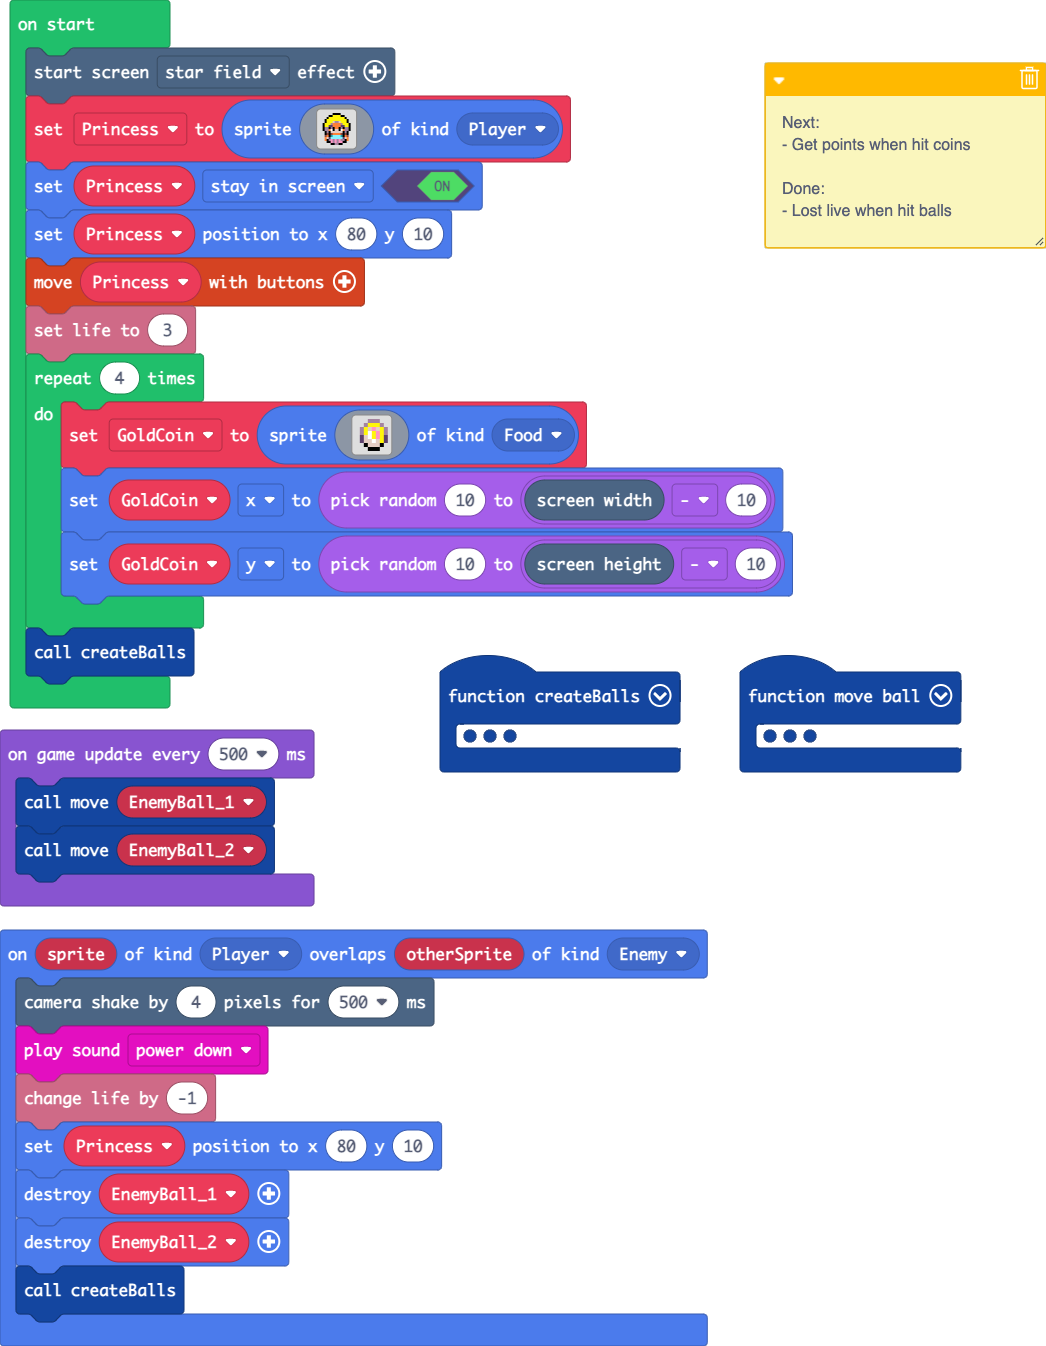
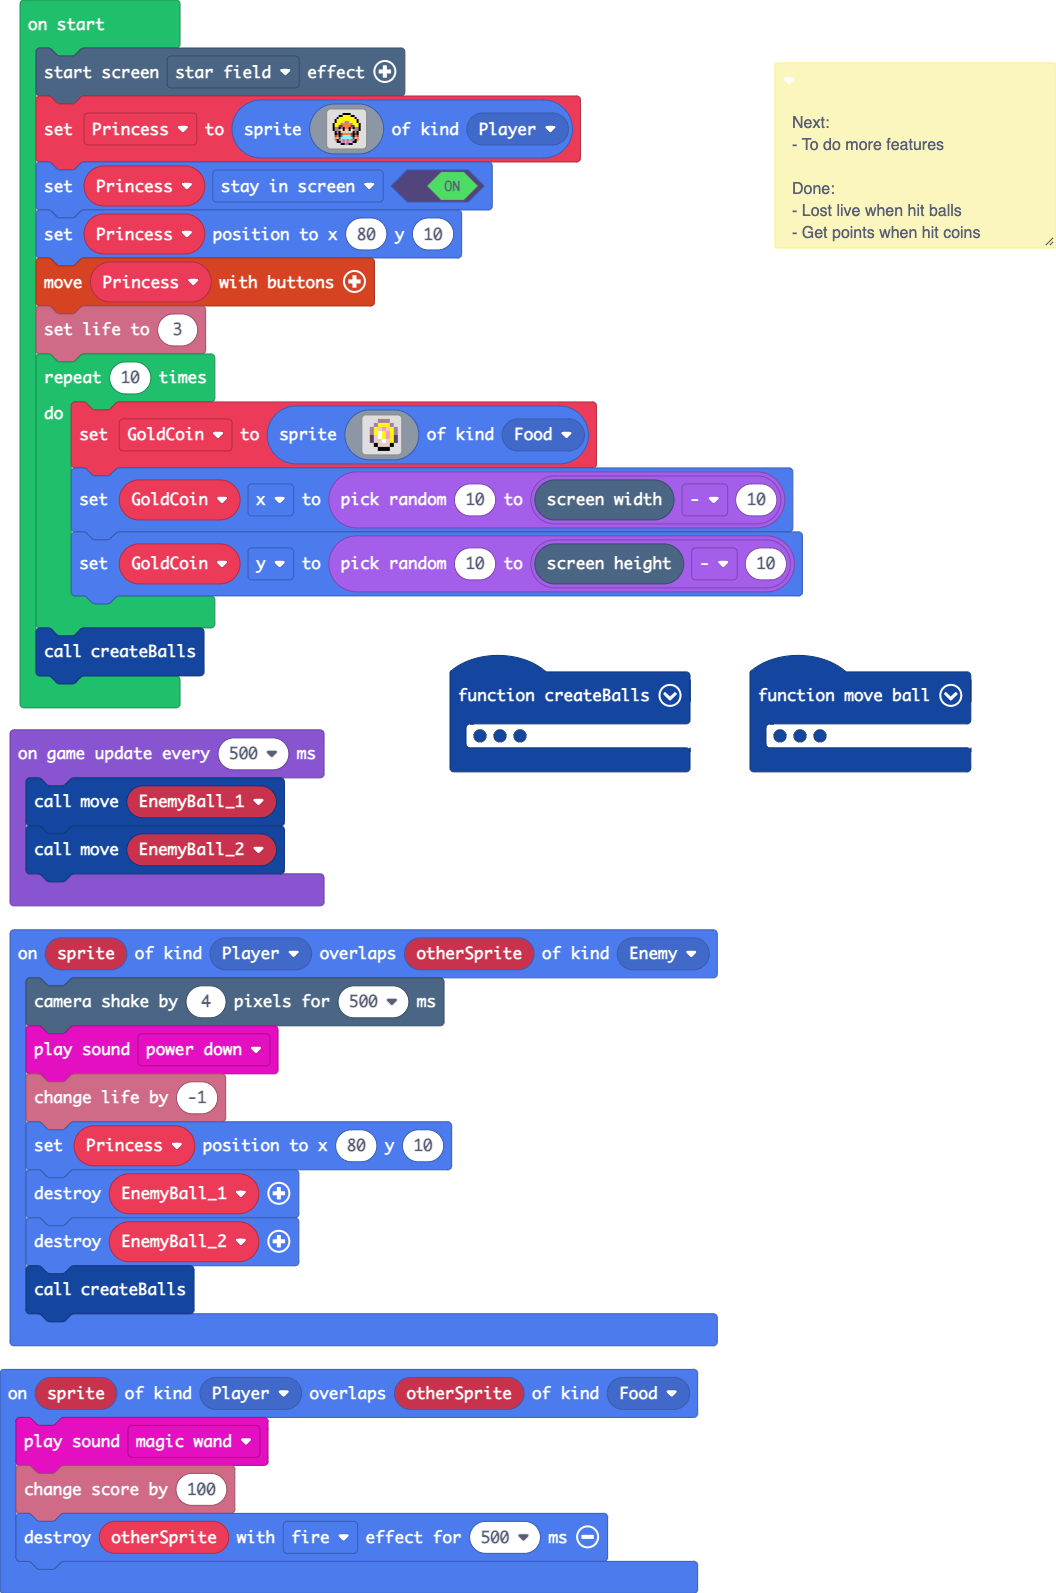
Again add score to coins

diff --git a/main.ts b/main.ts
@@ -44,8 +44,8 @@ function createBalls () {
 }
 sprites.onOverlap(SpriteKind.Player, SpriteKind.Food, function (sprite, otherSprite) {
     music.magicWand.play()
-    otherSprite.destroy(effects.warmRadial, 500)
     info.changeScoreBy(100)
+    otherSprite.destroy(effects.fire, 500)
 })
 function move (ball: Sprite) {
     if (ball.y > scene.screenHeight() - 20) {
@@ -89,13 +89,13 @@ sprites.onOverlap(SpriteKind.Player, SpriteKind.Enemy, function (sprite, otherSp
 /**
  * Next:
  * 
- * - refactor???
+ * - To do more features
  * 
  * Done:
  * 
- * - Get points when hit coins
- * 
  * - Lost live when hit balls
+ * 
+ * - Get points when hit coins
  */
 let EnemyBall_2: Sprite = null
 let EnemyBall_1: Sprite = null
